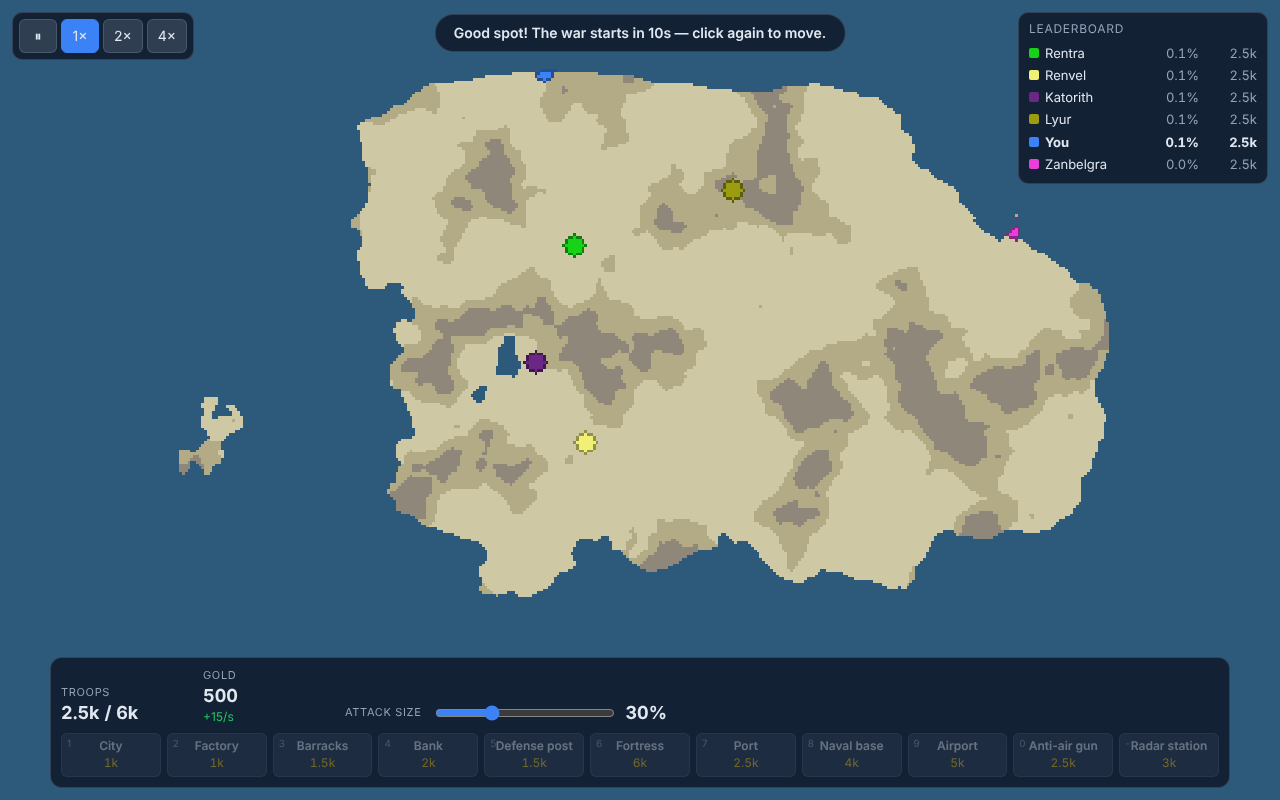
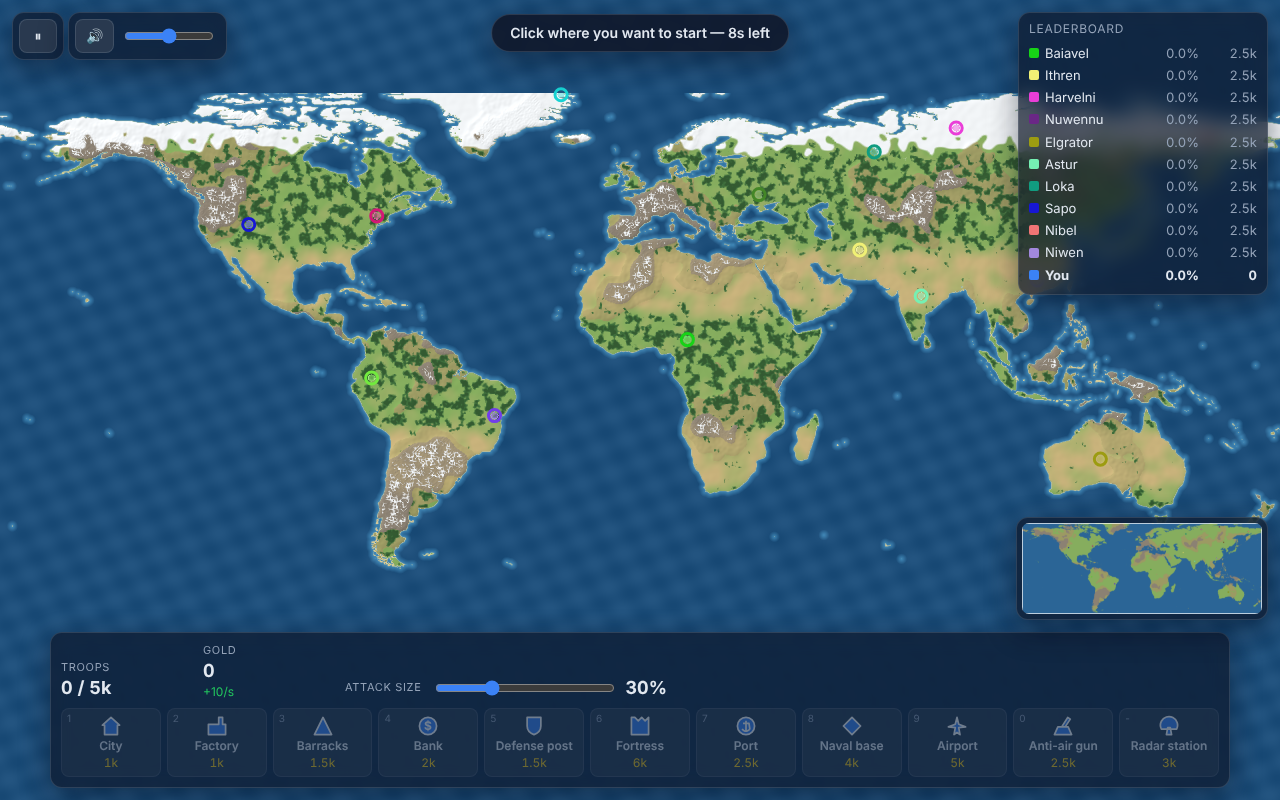
docs: Borderline's new look and sound — README, decisions and before/after screenshots
Claude-Session: https://claude.ai/code/session_01LpY5wArhXM6NxddhKvJVCZ

diff --git a/e2e/screenshots.spec.ts b/e2e/screenshots.spec.ts
@@ -1,0 +1,87 @@
+import { expect, test } from '@playwright/test';
+import type { Page } from '@playwright/test';
+
+// Refreshes the pictures in docs/screenshots. Runs only when asked: SCREENSHOTS=1 npx playwright test e2e/screenshots.spec.ts
+const OUT = 'docs/screenshots';
+test.skip(!process.env.SCREENSHOTS, 'only when SCREENSHOTS=1');
+
+const clickTile = async (page: Page, tile: number, button: 'left' | 'right' = 'left'): Promise<void> => {
+  const s = await page.evaluate((t) => window.__test.tileToScreen(t), tile);
+  await page.mouse.click(s.x, s.y, { button });
+};
+const find = (page: Page, kind: Parameters<typeof window.__test.findLandTile>[0]): Promise<number> =>
+  page.evaluate((k) => window.__test.findLandTile(k)!, kind);
+
+test('title screen', async ({ page }) => {
+  await page.goto('/game/?test=1');
+  await expect(page.locator('canvas.backdrop')).toHaveCount(1);
+  await page.waitForTimeout(3000); // the world map loads behind the menu
+  await page.screenshot({ path: `${OUT}/1-menu.png` });
+});
+
+test('the world map at the start', async ({ page }) => {
+  await page.goto('/game/?autostart=1&test=1&map=world&bots=16&difficulty=normal&seed=3');
+  await page.waitForFunction(() => window.__test?.state.phase === 'spawn');
+  await page.waitForFunction(() => [...window.__test.state.nations.values()].filter((n) => n.spawned).length >= 16);
+  await page.waitForTimeout(1500);
+  await page.screenshot({ path: `${OUT}/2-spawn.png` });
+});
+
+test('a game in progress: territories, buildings, the right-click menu and diplomacy, and a close-up', async ({ page }) => {
+  test.setTimeout(150_000);
+  await page.goto('/game/?autostart=1&test=1&map=random&size=small&seed=11&bots=6&difficulty=easy');
+  await page.waitForFunction(() => window.__test?.state.phase === 'spawn');
+  await page.waitForFunction(() => [...window.__test.state.nations.values()].filter((n) => n.spawned).length >= 6);
+  await clickTile(page, await find(page, 'coastal-unowned'));
+  await page.waitForFunction(() => window.__test.state.phase === 'playing', null, { timeout: 30_000 });
+  await page.evaluate(() => window.__test.grant({ gold: 1_000_000, troops: 60_000 }));
+  for (let i = 0; i < 6; i++) {
+    await clickTile(page, await find(page, 'unowned'));
+    await page.waitForTimeout(1500);
+  }
+  await page.waitForTimeout(8000);
+  for (const [key, kind] of [['1', 'player-interior'], ['7', 'player-coastal'], ['9', 'player-interior'], ['2', 'player-interior']] as const) {
+    await page.keyboard.press(key);
+    await clickTile(page, await find(page, kind));
+  }
+  await page.waitForTimeout(6000);
+  await page.screenshot({ path: `${OUT}/3-midgame.png` });
+
+  await clickTile(page, await find(page, 'enemy'), 'right');
+  await page.locator('.context-menu').getByRole('button', { name: /^Diplomacy with/ }).click();
+  await clickTile(page, await find(page, 'player-interior'), 'right');
+  await page.locator('.context-menu').getByRole('button', { name: /^Build/ }).click();
+  await page.waitForTimeout(400);
+  await page.screenshot({ path: `${OUT}/4-diplomacy.png` });
+  await page.keyboard.press('Escape');
+  await page.mouse.click(5, 400);
+
+  const border = await page.evaluate(() => {
+    const s = window.__test.state;
+    const w = s.init.width;
+    for (let t = 0; t < s.owner.length; t++) {
+      if (s.owner[t] !== s.init.playerId) continue;
+      for (const m of [t - 1, t + 1, t - w, t + w]) if (m >= 0 && m < s.owner.length && s.owner[m] !== s.owner[t] && s.owner[m] !== 0) return t;
+    }
+    return window.__test.findLandTile('player')!;
+  });
+  await page.evaluate((t) => window.__test.zoomTo(9, t), border);
+  await page.waitForTimeout(600);
+  await page.screenshot({ path: `${OUT}/6-closeup.png` });
+});
+
+test('victory', async ({ page }) => {
+  await page.goto('/game/?autostart=1&test=1&map=random&size=small&seed=7&bots=4&difficulty=easy');
+  await page.waitForFunction(() => window.__test?.state.phase === 'spawn');
+  await clickTile(page, await find(page, 'unowned'));
+  await page.waitForFunction(() => window.__test.state.phase === 'playing', null, { timeout: 20_000 });
+  await page.evaluate(() => window.__test.grant({ troops: 50_000 }));
+  for (let i = 0; i < 3; i++) {
+    await clickTile(page, await find(page, 'unowned'));
+    await page.waitForTimeout(1500);
+  }
+  await page.keyboard.press('Space');
+  await page.evaluate(() => window.__test.forceResult({ winners: [window.__test.state.init.playerId], reason: 'landShare' }));
+  await page.waitForTimeout(1100);
+  await page.screenshot({ path: `${OUT}/5-end.png` });
+});

diff --git a/README.md b/README.md
@@ -4,9 +4,14 @@ A browser strategy game in the spirit of Roblox's "take over the world" games: s
 map or a random one, grow your territory, build an economy and an army, and take the map from up to 40 computer
 opponents.
 
-**Play:** https://oofguy3.github.io/game/ (once Pages is turned on — see below)
+**Play:** https://oofguy3.github.io/game/
 
-![Mid-game: buildings, the right-click build menu and the diplomacy panel](docs/screenshots/4-diplomacy.png)
+![Mid-game: territories, the right-click build menu, the diplomacy panel and the minimap](docs/screenshots/4-diplomacy.png)
+
+The map is drawn by the graphics chip (WebGL2): natural land with forests, deserts, snow and shaded mountains, water
+that moves, nations laid over the land like tinted glass, glowing borders, a shimmer on land just captured, and pulsing
+front lines between nations at war. Computers without WebGL2 get the plain flat look (`?look=flat` forces it). The old
+look is kept for comparison in `docs/screenshots/*-before.png`.
 
 ## How to play
 
@@ -32,6 +37,8 @@ opponents.
 | `[` / `]` | Attack size down / up by 10% |
 | Space | Pause / resume |
 | Esc | Cancel placing a building; close the menu |
+| M | Show or hide the minimap (bottom right); click or drag on it to move the map there |
+| Speaker button (top left) | Mute or unmute the sound; the slider next to it sets the volume |
 
 ### Buildings
 
@@ -48,6 +55,13 @@ opponents.
 | Anti-air gun | Shoots down enemy planes |
 | Radar station | Warns of incoming planes and makes anti-air and fighters better |
 
+### Sound
+
+Action sounds (placing and finishing buildings, sending troops, land growing, ships and planes setting off, bombs,
+landings) and alerts (attacks on you, radar, offers and their answers, betrayal, lost buildings, the war starting, a
+nation knocked out, victory and defeat). You only hear what involves you. Sound starts on at half volume, and the game
+remembers your mute and volume settings.
+
 ## Development
 
 Needs Node 22.
@@ -59,8 +73,10 @@ Needs Node 22.
 | `npm test` | Unit and simulation tests (Vitest) |
 | `npm run e2e` | Browser tests (Playwright; builds and serves the game first) |
 | `npm run arena -- --seeds 20 --size small` | Bot-vs-bot matches between neighbouring difficulties; fails if a harder level wins under 70% |
-| `npm run perf` | Times the simulation on the world map with 30 Insane bots; fails above 20 ms per tick |
+| `npm run perf` | Times the simulation on the world map with 30 Insane bots (fails above 20 ms per tick) and the map's territory updates (fails above 2 ms each) |
 | `npm run build:world` | Rebuilds `public/maps/world.bin` from Natural Earth data |
+| `npm run build:sounds` | Rebuilds `public/sounds/` from Kenney's sound packs and the sounds made in code (needs `ffmpeg` and `unzip`) |
+| `SCREENSHOTS=1 npx playwright test e2e/screenshots.spec.ts` | Retakes the pictures in `docs/screenshots/` |
 | `npm run build` | Type-checks and builds the site into `dist/` |
 
 The simulation (`src/sim`) runs in a Web Worker and is deterministic for a given seed; the page (`src/client`) only
@@ -74,3 +90,9 @@ draws it and sends commands. Every balance number is in `src/shared/config.ts`. 
 3. The game is then at **https://oofguy3.github.io/game/**.
 
 The CI workflow runs the type check, tests and build on every push and pull request.
+
+## Credits
+
+- Sound effects: [Kenney](https://www.kenney.nl) (CC0). The horn, jet, whoosh, alarms and tunes are made in code
+  (`src/client/audio/synth.ts`). The full list is in `public/sounds/CREDITS.txt`.
+- World map: [Natural Earth](https://www.naturalearthdata.com) via `world-atlas`.

diff --git a/docs/decisions.md b/docs/decisions.md
@@ -138,3 +138,31 @@ None of these breaks normal play; each is a polish item or an edge case.
 - bots never accept peace with an overseas enemy neither side can reach by land (both estimates 0 → ours < theirs false)
 - the Ask-to-attack list can offer a target allied with the chosen ally (the sim rejects it readably)
 - a nation left landless when the spawn phase ends is marked dead without an 'eliminated' event
+
+## Step B: the new look and sound ("Borderline")
+
+Design: `docs/superpowers/specs/2026-10-23-looks-and-sounds-design.md`. Plan: `docs/superpowers/plans/2026-10-23-looks-and-sounds.md`.
+
+**Decisions in the design** (made without asking, each with its cost if wrong)
+- Some sounds are made in code: the whoosh, jet, horn, two-tone warning, radar ping, betrayal sting, low "declined" tone and the three tunes. The packs either lack them or don't say which tunes are happy. — If wrong: the tunes sound plainer than recordings; easy to swap.
+- Coasts get no border line or glow; only borders where land changes owner (empty land included). — If wrong: coastal nations look a little less outlined.
+- The title screen's backdrop is the real world map with made-up nations. — If wrong: nothing to play.
+- The minimap uses the flat picture, not the graphics-chip look. — If wrong: the minimap looks simpler than the big map.
+- A lost WebGL context switches to the flat look for the rest of the match. — If wrong: rare; the game keeps working.
+- `?look=flat` stays for tests and comparisons. — If wrong: none.
+- Front lines show only between two nations; spreading into empty land doesn't count. — If wrong: less movement in the early game.
+
+**Rulings while building**
+- The "no forest near the coast" test allows for the one-byte coast encoding (±0.03 of a tile). — If wrong: none.
+- The territory field recomputes only the part of each 32×32 block near the changed tiles, with a 4-tile margin. Whole blocks measured 2.5 ms per update against a 2 ms budget; now 0.42 ms, and a test checks it always equals a full recompute. — If wrong: a stale glow somewhere; the test guards it.
+- Visual tuning from screenshots:
+  - coastlines are smoothed once without letting any tile change sides;
+  - mountains get ridges, with snow only on the ridge tops, and the polar snow line wobbles;
+  - forest and snow are crisp patches;
+  - the nation tint uses a lighter version of the colour, since a blue nation over forest read as sea;
+  - the capture shimmer blends between tiles, front lines are a warm, pulsing 4 px line with a glow, and the water outside the map moves like the rest.
+  — If wrong: purely cosmetic.
+- The news feed and the minimap follow the bottom bar's height, now that the build buttons have icons. — If wrong: none.
+- "Keep watching" after a defeat brings the colour back. — If wrong: none.
+- The sound files come from three Kenney packs; the jingles pack isn't needed. The alarm and the "declined" tone were turned down, and the land-gain thud plays softly, after measuring every file's loudness. — If wrong: some sounds a little quieter than intended.
+- Small test-API changes (`findInlandTile`, `dispose()` in place of `debugLoseContext()`, one hooks object for `installTestApi`). — If wrong: none.
